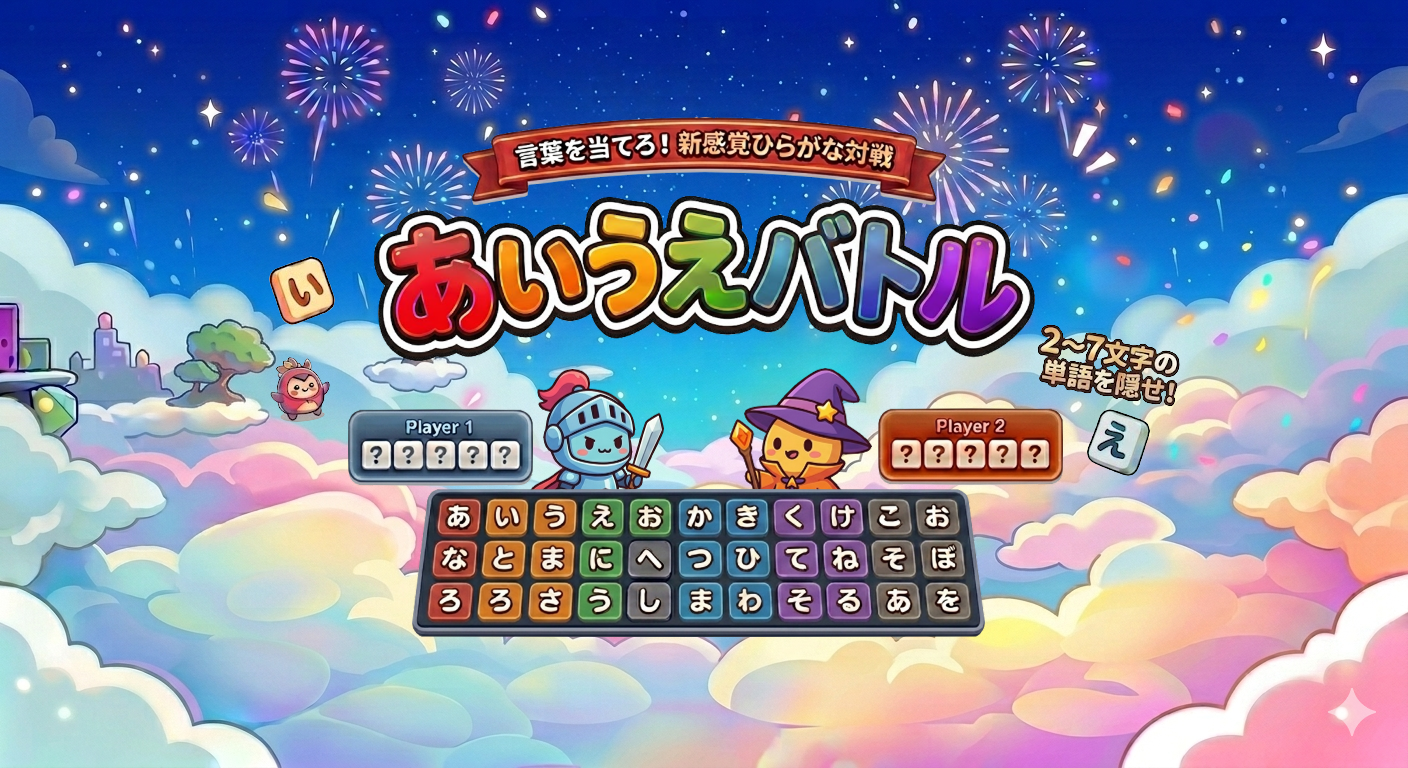
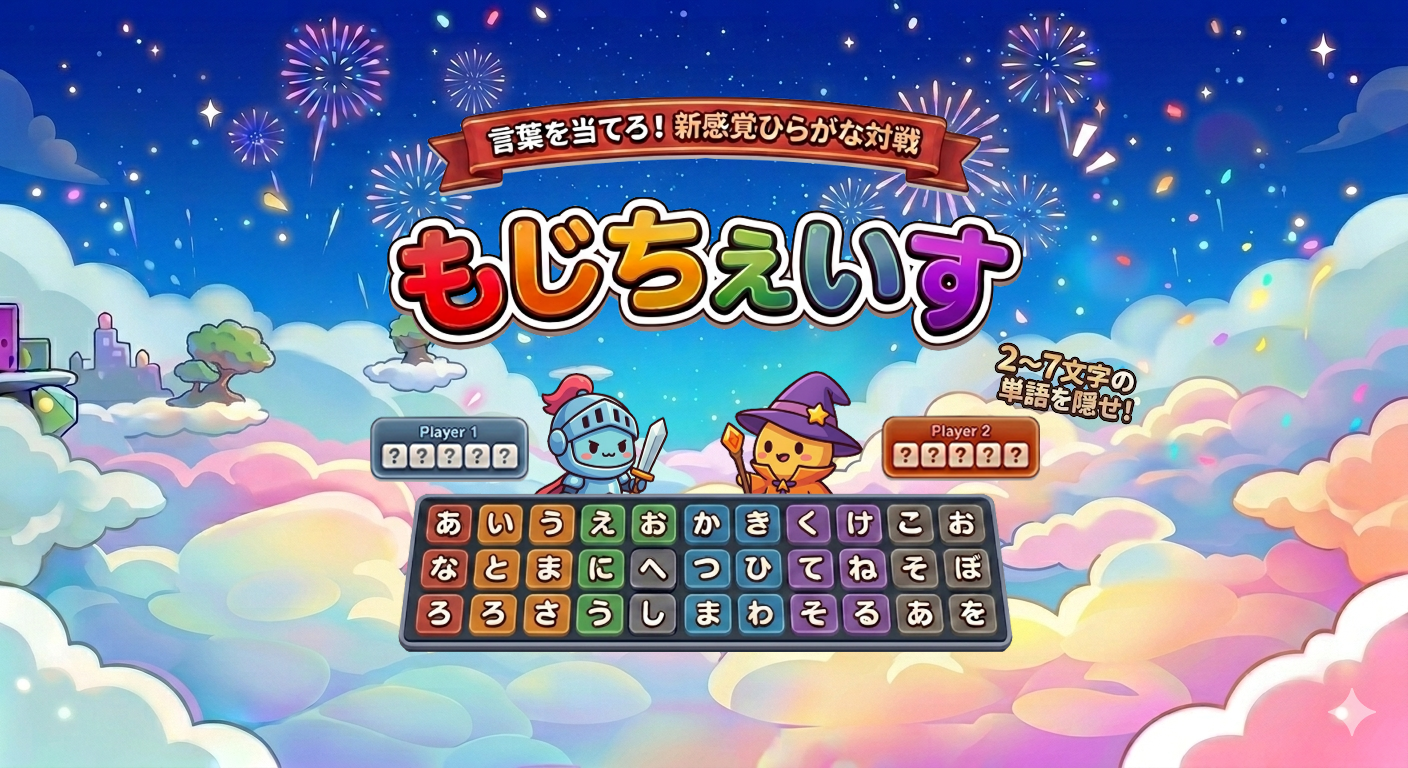
タイトル変更

Changed region(s): [[0.1875, 0.125, 0.8438, 0.875]]

diff --git a/public/index.html b/public/index.html
@@ -3,7 +3,7 @@
 
 <head>
     <meta charset="UTF-8">
-    <title>あいうえバトル</title>
+    <title>もじちぇいす</title>
     <link rel="stylesheet" href="style.css">
 </head>
 
@@ -53,7 +53,7 @@
 
 <!-- ①ルーム画面 -->
 <div id="screenRoom" hidden>
-    <h1>あいうえバトル</h1>
+    <h1>もじちぇいす</h1>
     <input id="nameInput" placeholder="プレイヤー名">
     <button id="createRoom">部屋を作る</button>
     <hr>
